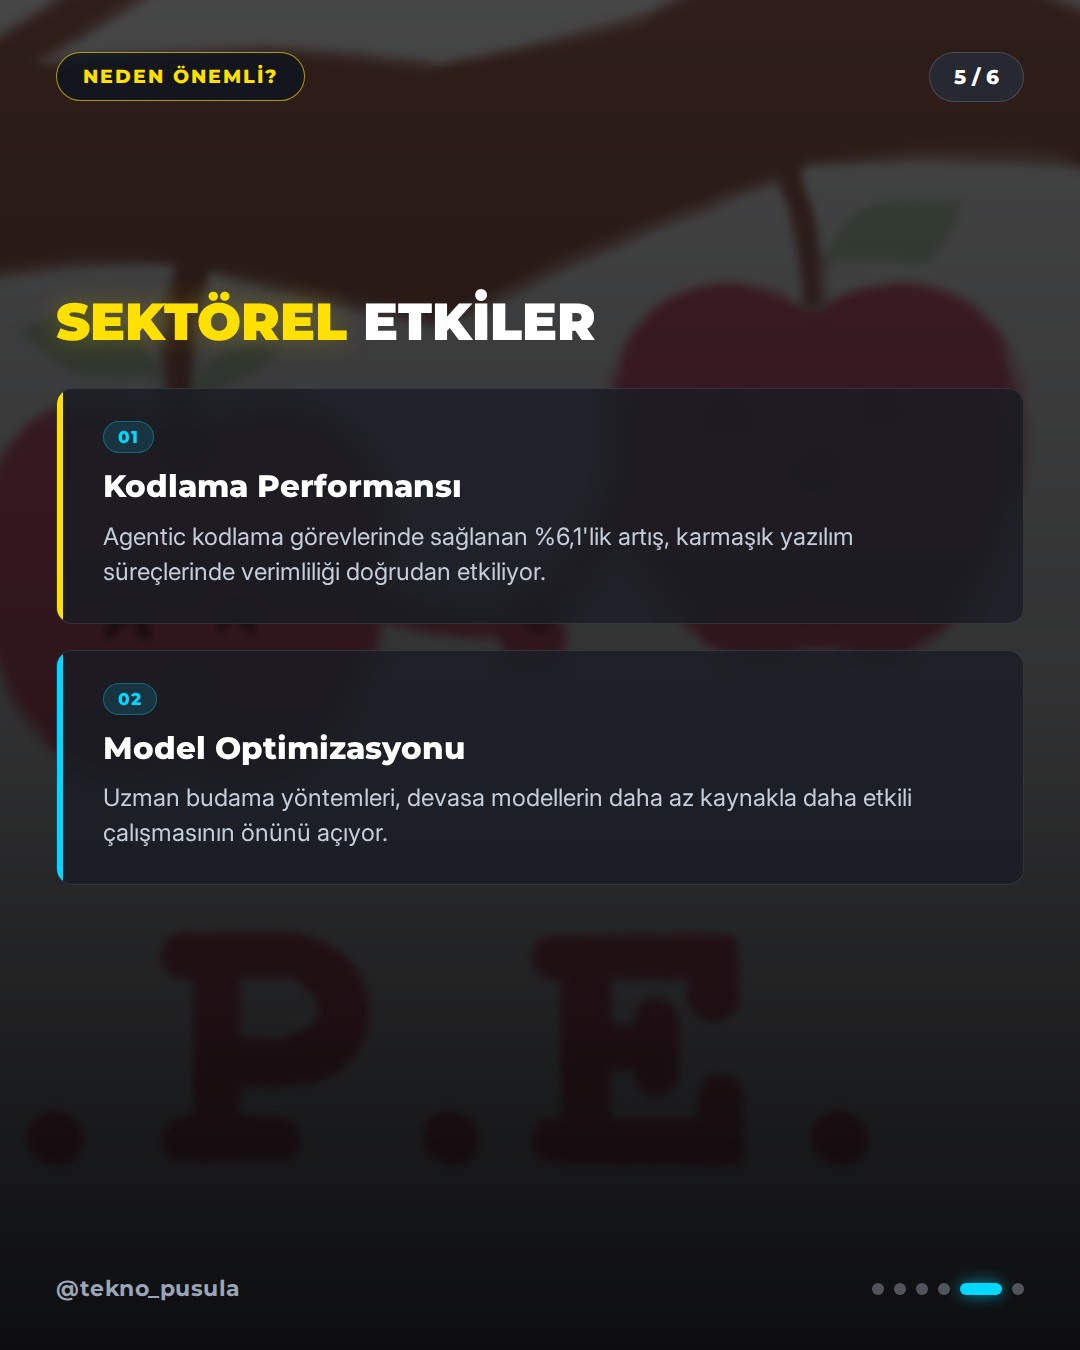
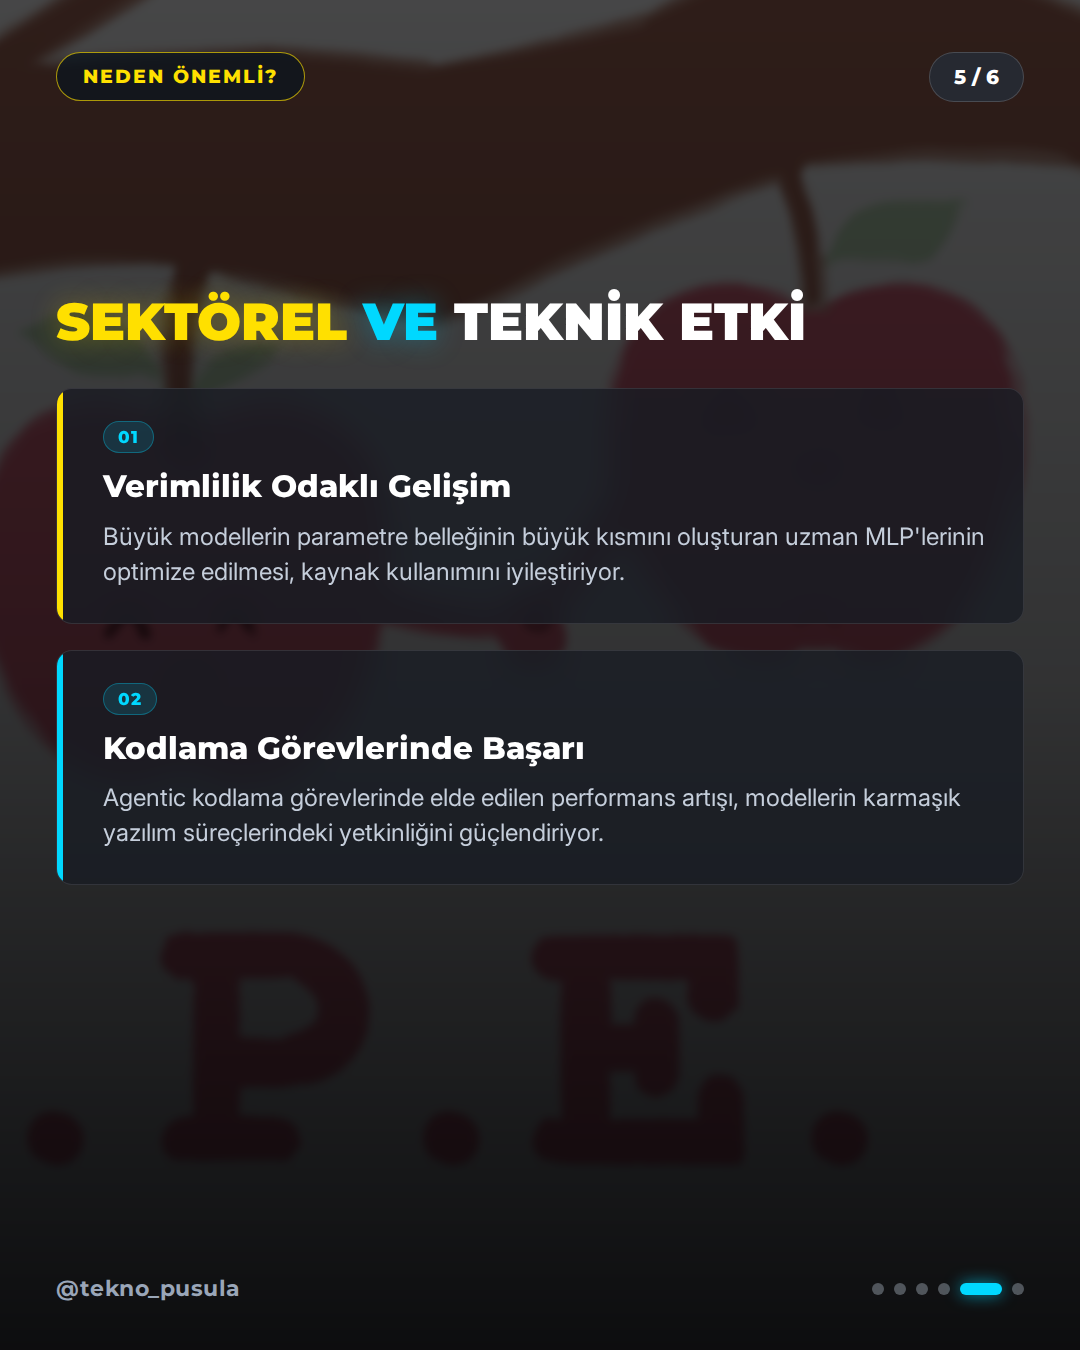
🤖 post: 2026-11-09 09:00 – Your Experts Have Partners. There's HOPE for Keeping Them To

diff --git a/output/2026-11-09/01-0900-your-experts-have-partners-there-s-hope-for-keep/captions.md b/output/2026-11-09/01-0900-your-experts-have-partners-there-s-hope-for-keep/captions.md
@@ -2,29 +2,29 @@
 
 ## INSTAGRAM
 
-Yapay zeka dünyasında devrim niteliğinde bir gelişme! Qwen3.5-122B modeli, HOPE yöntemiyle sınırları zorluyor. 48 MoE katmanı ve 256 uzmanla devasa bir yapıya sahip olan bu model, artık çok daha verimli.
+Yapay zeka modellerini küçültürken performans artırmak mümkün mü? HOPE yöntemi, büyük dil modellerinde (LLM) devrim yaratıyor! 🚀
 
-HOPE (Higher-Order Pruning of Experts), uzmanlar arasındaki etkileşimleri analiz ederek %50 budama oranında bile agentic kodlama görevlerinde %6,1 performans artışı sağlıyor. Bu, devasa modellerin daha az kaynakla daha akıllı çalışması demek.
+Qwen3.5 ve GLM-4.5-Air gibi devasa modeller üzerinde test edilen HOPE, uzmanlar arasındaki etkileşimleri analiz eden ikinci dereceden bir budama yöntemi kullanıyor.
 
-Sizce modellerin uzman sayısını artırmak mı yoksa mevcut uzmanları daha verimli budamak mı daha önemli? Yorumlarda buluşalım!
+Sonuç mu? Agentic kodlama görevlerinde %6,1'e varan performans artışı! Bu, modellerin daha az kaynakla daha zeki çalışabileceği anlamına geliyor.
 
-Teknoloji dünyasındaki güncel gelişmeleri takip etmek için Tekno Pusula'yı izlemeye devam edin.
+Sizce modelleri budamak, gelecekte yapay zekayı yerel cihazlarda çalıştırmanın anahtarı mı? Yorumlarda buluşalım.
 
 Kaynak: Hugging Face Blog, TechCrunch
 
-#YapayZeka #Qwen3_5 #HOPE #Teknoloji #Yazılım #AI #MachineLearning #TechNews #DeepLearning #Innovation #TeknoPusula
+#YapayZeka #AI #Teknoloji #MachineLearning #LLM #HOPE #Yazılım #Verimlilik #ArtificialIntelligence #TechNews #DeepLearning #Innovation
 
 ## TIKTOK
 
-Yapay zekada verimlilik dönemi! Qwen3.5-122B modeli, HOPE yöntemiyle artık çok daha güçlü. Uzman budama teknolojisi sayesinde kodlama görevlerinde %6,1 performans artışı sağlandı. Devasa modellerin geleceği burada şekilleniyor. Sizce daha fazla uzman mı, daha iyi budama mı? 
+Yapay zeka modelleri artık daha verimli! HOPE yöntemi ile tanışın. Büyük modelleri budayarak %6,1 performans artışı sağlamak mümkün. Gelecek yerel cihazlarda mı? 🤖✨
 
 Kaynak: Hugging Face Blog, TechCrunch
 
-#YapayZeka #AI #Qwen3_5 #Teknoloji #Kodlama #TechTok
+#YapayZeka #AI #Teknoloji #Kodlama #Gelecek #TechTok
 
 ## X
 
-Qwen3.5-122B modeli, HOPE yöntemiyle verimlilikte yeni seviyeye ulaştı! Uzmanlar arası etkileşimi optimize eden bu yöntem, kodlama görevlerinde %6,1 artış sağlıyor. Devasa modeller artık daha az kaynakla daha etkili. 
+Büyük dil modellerinde verimlilik dönemi! HOPE yöntemi, uzman etkileşimlerini optimize ederek agentic kodlama görevlerinde %6,1 performans artışı sağlıyor. Modelleri budamak, yerel cihazlarda AI'nın geleceği mi? 
 
 Kaynak: Hugging Face Blog, TechCrunch
 
@@ -32,11 +32,11 @@ Kaynak: Hugging Face Blog, TechCrunch
 
 ## THREADS
 
-Yapay Zekada Verimlilik Devrimi: HOPE Yöntemi
+HOPE Yöntemi ile Model Budamada Yeni Dönem
 
-Qwen3.5-122B modeli, HOPE yöntemiyle uzman budama teknolojisinde çıtayı yükseltiyor. Uzmanlar arasındaki etkileşimi hesaba katan bu yöntem, kodlama görevlerinde %6,1 performans artışı sağlıyor.
+Büyük dil modellerinin (LLM) verimliliğini artırmak için geliştirilen HOPE, uzmanlar arasındaki etkileşimleri analiz eden ikinci dereceden bir budama yöntemi sunuyor. Qwen3.5 ve GLM-4.5-Air modellerinde test edilen bu yaklaşım, %6,1'e varan performans artışı sağlıyor.
 
-Sizce modellerin uzman sayısını artırmak mı yoksa mevcut uzmanları daha verimli budamak mı daha önemli? 💭
+Sizce modelleri budamak, gelecekte yapay zekayı yerel cihazlarda çalıştırmanın anahtarı mı? 💭
 
 Kaynak: Hugging Face Blog, TechCrunch
 
@@ -44,26 +44,26 @@ Kaynak: Hugging Face Blog, TechCrunch
 
 ## LINKEDIN
 
-Yapay zeka modellerinin ölçeklenmesi ve optimizasyonu, günümüz teknoloji dünyasının en kritik konularından biri. Qwen3.5-122B modeli ve yeni geliştirilen HOPE (Higher-Order Pruning of Experts) yöntemi, bu alanda önemli bir eşiği temsil ediyor.
+Yapay zeka dünyasında verimlilik odaklı yeni bir gelişme: HOPE yöntemi.
 
-48 MoE katmanı ve 256 uzmanla karmaşık bir yapıya sahip olan Qwen3.5-122B, HOPE yöntemi sayesinde uzmanlar arasındaki ikili etkileşimleri analiz ederek %50 budama oranında dahi agentic kodlama görevlerinde %6,1'lik bir performans artışı sergiliyor. Bu gelişme, devasa modellerin daha az kaynakla daha yüksek verimlilikle çalışabileceğini kanıtlıyor.
+Büyük dil modellerinin (LLM) parametre belleğinin büyük kısmını oluşturan uzman MLP'lerinin optimize edilmesi, kaynak kullanımı açısından kritik bir öneme sahip. HOPE, uzmanlar arasındaki ikili etkileşimleri hesaba katan gelişmiş bir ikinci dereceden budama yöntemi olarak öne çıkıyor.
 
-Sektörel açıdan bakıldığında, model optimizasyonunun yazılım süreçlerine doğrudan etkisi, kaynak yönetimi stratejilerimizi yeniden şekillendirebilir. Sizce gelecekte modellerin büyüklüğü mü yoksa optimizasyon yetenekleri mi rekabet avantajı sağlayacak?
+Qwen3.5-122B ve GLM-4.5-Air gibi modeller üzerinde yapılan testlerde, agentic kodlama görevlerinde %6,1'e varan performans artışı gözlemlendi. Bu teknoloji, karmaşık yazılım süreçlerinde modellerin yetkinliğini güçlendirirken, donanım kaynaklarının daha verimli kullanılmasını sağlıyor.
+
+Sizce bu tür optimizasyon yöntemleri, yapay zekanın yerel cihazlarda yaygınlaşmasını hızlandıracak mı?
 
 Kaynak: Hugging Face Blog, TechCrunch
 
-#YapayZeka #AI #ModelOptimizasyonu #Teknoloji #YazılımGeliştirme
+#YapayZeka #AI #Verimlilik #MachineLearning #Teknoloji
 
 ## FACEBOOK
 
-Yapay zeka teknolojilerinde verimlilik artıyor! Qwen3.5-122B modeli, HOPE yöntemiyle uzman budama teknolojisinde yeni bir seviyeye ulaştı.
+Yapay zeka modelleri artık daha az kaynakla daha çok iş yapabiliyor! HOPE yöntemi, büyük dil modellerinde (LLM) verimliliği artıran yeni bir yaklaşım sunuyor.
 
-HOPE yöntemi, uzmanlar arasındaki etkileşimleri optimize ederek kodlama görevlerinde %6,1 performans artışı sağlıyor. Bu, devasa modellerin daha az kaynakla daha etkili çalışması anlamına geliyor.
+Qwen3.5 ve GLM-4.5-Air modelleri üzerinde başarıyla test edilen bu yöntem, uzmanlar arasındaki etkileşimleri optimize ederek %6,1'e varan performans artışı sağlıyor. Bu gelişme, modellerin karmaşık yazılım süreçlerindeki yetkinliğini güçlendiriyor.
 
-Sizce modellerin uzman sayısını artırmak mı yoksa mevcut uzmanları daha verimli budamak mı daha önemli? Yorumlarınızı bekliyoruz.
-
-Teknoloji dünyasındaki güncel gelişmeleri takip etmek için Tekno Pusula'yı izlemeye devam edin.
+Sizce modelleri budamak, gelecekte yapay zekayı yerel cihazlarda çalıştırmanın anahtarı mı? Düşüncelerinizi bekliyoruz.
 
 Kaynak: Hugging Face Blog, TechCrunch
 
-#YapayZeka #Qwen3_5 #HOPE #Teknoloji #AI
+#YapayZeka #Teknoloji #AI #Yazılım #Gelecek

diff --git a/output/2026-11-09/01-0900-your-experts-have-partners-there-s-hope-for-keep/verification.md b/output/2026-11-09/01-0900-your-experts-have-partners-there-s-hope-for-keep/verification.md
@@ -3,14 +3,14 @@
 **Haber:** Your Experts Have Partners. There's HOPE for Keeping Them Together
 **Canonical URL:** https://huggingface.co/blog/amazon/higher-order-pruning-experts
 **Kaynaklar:** Hugging Face Blog, Engadget, Wired, TechCrunch
-**Kontrol zamanı:** 2026-11-09T15:37:38+03:00
+**Kontrol zamanı:** 2026-11-09T15:48:08+03:00
 **Sonuç:** ✅ YAYINLANABİLİR
 
 ---
 
 ## İddia Bazlı Sonuçlar
 
-### 1. Qwen3.5-122B modeli, 48 MoE katmanının her birinde 256 uzmana sahiptir.
+### 1. Qwen3.5-122B modelinde her birinde 256 uzman bulunan 48 adet MoE katmanı mevcuttur.
 - **Karar:** ✅ `supported`
 - **Kanıtlar:**
   - [https://huggingface.co/blog/amazon/higher-order-pruning-experts](https://huggingface.co/blog/amazon/higher-order-pruning-experts)
@@ -24,37 +24,41 @@
   - [https://huggingface.co/blog/amazon/higher-order-pruning-experts](https://huggingface.co/blog/amazon/higher-order-pruning-experts)
     > For example, Qwen3.5-122B has 256 experts in each of its 48 MoE layers, and 95% of its ~250 GB parameter memory footprint is taken up entirely by these expert MLPs alone.
 
-### 3. HOPE (Higher-Order Pruning of Experts), uzmanlar arasındaki ikili etkileşimleri hesaba katan ikinci dereceden bir budama yöntemidir.
+### 3. HOPE yöntemi, uzmanlar arasındaki ikili etkileşimleri hesaba katan ikinci dereceden bir budama yöntemidir.
 - **Karar:** ✅ `supported`
 - **Kanıtlar:**
   - [https://huggingface.co/blog/amazon/higher-order-pruning-experts](https://huggingface.co/blog/amazon/higher-order-pruning-experts)
     > Our newest paper derives HOPE (Higher-Order Pruning of Experts), a second-order method that accounts for pairwise expert interactions.
 
-### 4. HOPE yöntemi, %50 budama oranında, en iyi ikinci budama yöntemine kıyasla agentic kodlama görevlerinde %6,1'e varan performans artışı sağlamaktadır.
+### 4. HOPE yöntemi %50 budama oranında, bir sonraki en iyi budama yöntemine kıyasla agentic kodlama görevlerinde %6,1'e varan performans artışı sağlamaktadır.
 - **Karar:** ✅ `supported`
 - **Kanıtlar:**
   - [https://huggingface.co/blog/amazon/higher-order-pruning-experts](https://huggingface.co/blog/amazon/higher-order-pruning-experts)
     > At 50% pruning, HOPE achieves the best average rank of any method, with gains of up to +6.1% on agentic coding tasks over the next-best pruning method.
 
-### 5. HOPE yöntemi, tüm koşullar genelinde 5 yöntem arasından 2,07 ortalama sıra ile en iyi performansı göstermiştir.
+### 5. GLM-4.5-Air modeli, katman başına 128 uzman ve toplam 106 milyar parametreye sahiptir.
 - **Karar:** ✅ `supported`
 - **Kanıtlar:**
   - [https://huggingface.co/blog/amazon/higher-order-pruning-experts](https://huggingface.co/blog/amazon/higher-order-pruning-experts)
-    > Across all conditions, HOPE achieved the best average rank (2.07 out of 5 methods)
+    > Visualization of the interaction matrix F for GLM-4.5-Air (128 experts per layer, 106B parameters total) at three representative layers (early, middle, late).
+  - [https://huggingface.co/blog/amazon/higher-order-pruning-experts](https://huggingface.co/blog/amazon/higher-order-pruning-experts)
+    > Visualization of the interaction matrix F for GLM-4.5-Air (128 experts per layer, 106B parameters total)
 
-### 6. %50 budama oranında HOPE'un ortalama sırası 1,58'e yükselirken, en iyi ikinci yöntem olan REAP'in ortalama sırası 2,42 olarak gerçekleşmiştir.
-- **Karar:** ⚠ `not_found`
-- **Kanıt:** yok
-
-### 7. Qwen3.5-35B-A3B modelinde %50 budama oranında HOPE, SWE-Bench Pro testinde 42,3 puan alarak 41,8 puan alan budanmamış modeli geçmiştir.
-- **Karar:** ⚠ `not_found`
-- **Kanıt:** yok
-
-### 8. HOPE yönteminin F-matrisi köşegeni, REAP yönteminin uzman sıralamalarını 0,99 Spearman korelasyonu ile neredeyse mükemmel şekilde kurtarmaktadır.
+### 6. HOPE yöntemi, Qwen3.5-122B, Qwen3.5-35B ve GLM-4.5-Air olmak üzere üç farklı model üzerinde test edilmiştir.
 - **Karar:** ✅ `supported`
 - **Kanıtlar:**
   - [https://huggingface.co/blog/amazon/higher-order-pruning-experts](https://huggingface.co/blog/amazon/higher-order-pruning-experts)
-    > The diagonal of recovers REAP's expert rankings almost perfectly (Spearman ).
+    > We evaluated HOPE as an expert pruning method using 3 models (Qwen3.5-122B, Qwen3.5-35B, and GLM-4.5-Air)
+
+### 7. HOPE yöntemi, Evol-CodeAlpaca ve SWE-Bench Verified trajectories olmak üzere iki farklı kalibrasyon veri seti kullanılarak değerlendirilmiştir.
+- **Karar:** ✅ `supported`
+- **Kanıtlar:**
+  - [https://huggingface.co/blog/amazon/higher-order-pruning-experts](https://huggingface.co/blog/amazon/higher-order-pruning-experts)
+    > We evaluated HOPE as an expert pruning method using 3 models (Qwen3.5-122B, Qwen3.5-35B, and GLM-4.5-Air), with 2 calibration datasets (Evol-CodeAlpaca and SWE-Bench Verified trajectories).
+
+### 8. Qwen3.5-35B-A3B modelinde %50 budama oranında HOPE yöntemi SWE-Bench Pro üzerinde 42,3 puan alırken, budanmamış model 41,8 puan almıştır.
+- **Karar:** ⚠ `not_found`
+- **Kanıt:** yok
 
 ---
 
@@ -62,14 +66,14 @@
 
 | İddia | 1. Tur | 2. Tur | Nihai |
 |-------|--------|--------|-------|
-| Qwen3.5-122B modeli, 48 MoE katmanının her birinde 256 uzman | supported | supported | supported |
+| Qwen3.5-122B modelinde her birinde 256 uzman bulunan 48 adet | supported | supported | supported |
 | Qwen3.5-122B modelinin yaklaşık 250 GB'lık parametre belleği | supported | supported | supported |
-| HOPE (Higher-Order Pruning of Experts), uzmanlar arasındaki  | supported | supported | supported |
-| HOPE yöntemi, %50 budama oranında, en iyi ikinci budama yönt | supported | supported | supported |
-| HOPE yöntemi, tüm koşullar genelinde 5 yöntem arasından 2,07 | supported | supported | supported |
-| %50 budama oranında HOPE'un ortalama sırası 1,58'e yükselirk | not_found | not_found | not_found |
-| Qwen3.5-35B-A3B modelinde %50 budama oranında HOPE, SWE-Benc | not_found | not_found | not_found |
-| HOPE yönteminin F-matrisi köşegeni, REAP yönteminin uzman sı | supported | supported | supported |
+| HOPE yöntemi, uzmanlar arasındaki ikili etkileşimleri hesaba | supported | supported | supported |
+| HOPE yöntemi %50 budama oranında, bir sonraki en iyi budama  | supported | supported | supported |
+| GLM-4.5-Air modeli, katman başına 128 uzman ve toplam 106 mi | supported | supported | supported |
+| HOPE yöntemi, Qwen3.5-122B, Qwen3.5-35B ve GLM-4.5-Air olmak | supported | supported | supported |
+| HOPE yöntemi, Evol-CodeAlpaca ve SWE-Bench Verified trajecto | supported | supported | supported |
+| Qwen3.5-35B-A3B modelinde %50 budama oranında HOPE yöntemi S | not_found | not_found | not_found |
 
 ## Kaynak Metinleri
 
